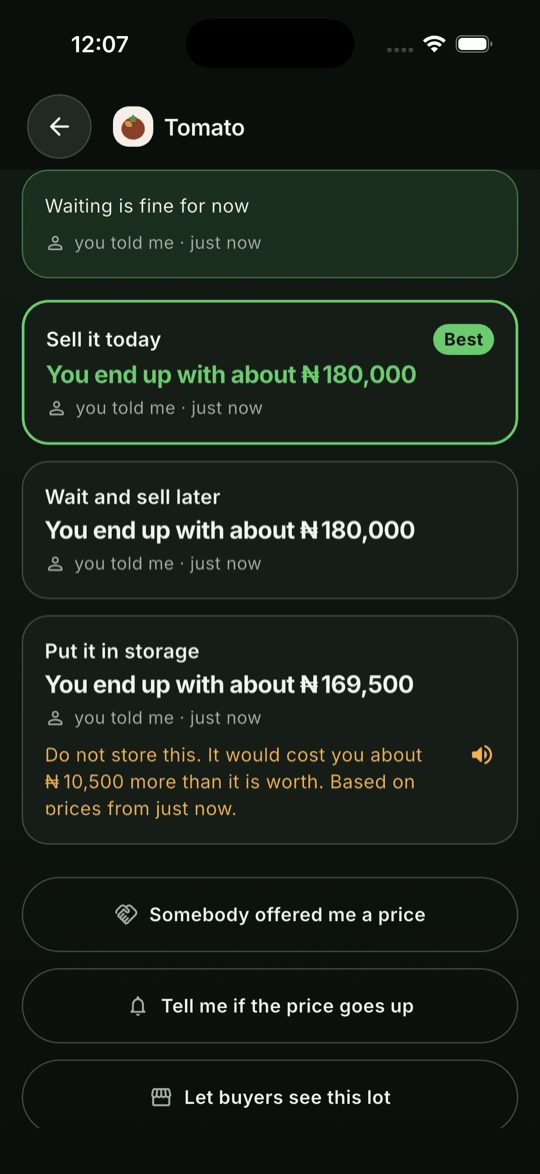
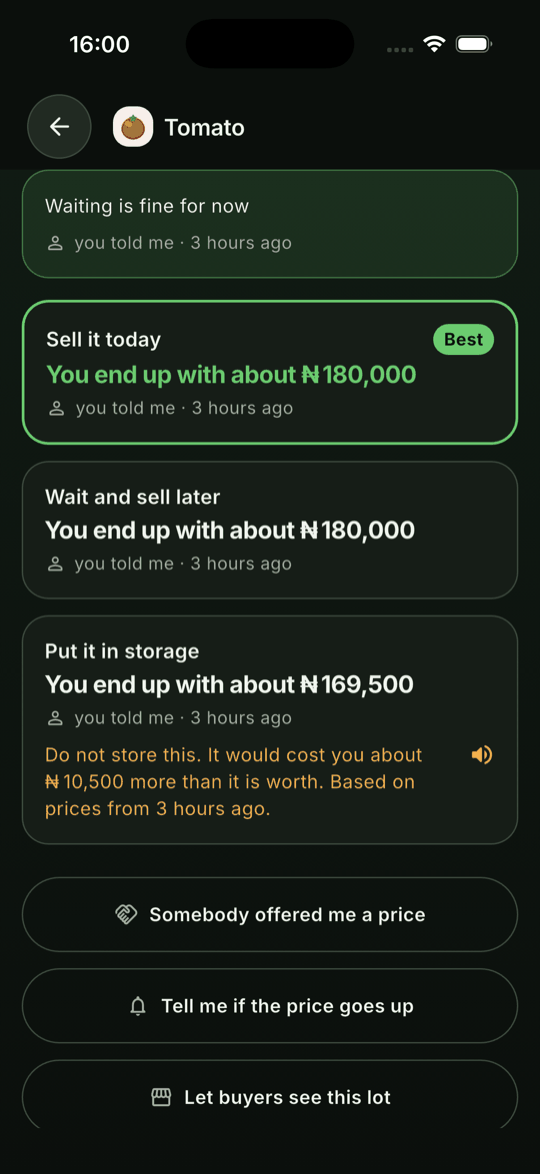
Stop the rounded corner of a tappable card clipping the last line's descenders

diff --git a/app/test/pressable_test.dart b/app/test/pressable_test.dart
@@ -1,0 +1,60 @@
+import 'package:flutter/material.dart';
+import 'package:flutter_test/flutter_test.dart';
+import 'package:harvest/core/theme.dart';
+
+/*
+  A tappable thing clips its ink and nothing else.
+
+  `Pressable` used to hand `Material` `clipBehavior: Clip.antiAlias`, which
+  clips the **child** to the rounded rectangle. Its box hugs its child exactly,
+  so for a block of text the bottom-left curve carved into the last line: on the
+  decision screen *"Based on prices from just now."* rendered as **orices** —
+  the descender of the `p`, the first glyph on that line and the one nearest the
+  corner, shaved flat, while the `j` of *just* two hundred pixels to the right
+  kept its tail.
+
+  This asserts the two facts that fix left standing, because the alternative is
+  a golden test and this repository has no golden infrastructure to hang one on.
+  Neither assertion would catch a *different* way of clipping the child — what
+  caught this one was looking at the pixels, and `docs/JOURNAL.md` says so.
+*/
+void main() {
+  Future<void> pump(WidgetTester tester) => tester.pumpWidget(MaterialApp(
+        theme: Palette.theme(brightness: Brightness.dark),
+        home: Scaffold(
+          body: Center(
+            child: Pressable(
+              borderRadius: Radii.chip,
+              onTap: () {},
+              child: const Text('Based on prices from just now.'),
+            ),
+          ),
+        ),
+      ));
+
+  testWidgets('the child is not clipped, so descenders survive the corner',
+      (tester) async {
+    await pump(tester);
+
+    final material = tester.widget<Material>(find.descendant(
+      of: find.byType(Pressable),
+      matching: find.byType(Material),
+    ));
+    expect(material.clipBehavior, Clip.none,
+        reason: 'clipping the child is what ate the tail of the p');
+  });
+
+  testWidgets('and the ink is still clipped to the same corner',
+      (tester) async {
+    await pump(tester);
+
+    // `InkWell.borderRadius` is what keeps the splash inside the rounded
+    // rectangle. It was doing that all along; the Material's clip was the
+    // belt-and-braces that cost a descender.
+    final ink = tester.widget<InkWell>(find.descendant(
+      of: find.byType(Pressable),
+      matching: find.byType(InkWell),
+    ));
+    expect(ink.borderRadius, Radii.chip);
+  });
+}

diff --git a/app/lib/core/theme.dart b/app/lib/core/theme.dart
@@ -531,7 +531,25 @@ class _PressableState extends State<Pressable> {
       child: Material(
         color: Colors.transparent,
         borderRadius: widget.borderRadius,
-        clipBehavior: Clip.antiAlias,
+        /*
+          Not clipped, because the corner was eating the words.
+
+          `Clip.antiAlias` here clips the **child** to the rounded rectangle,
+          and this box hugs its child exactly — for a block of text that means
+          the bottom-left curve carves into the last line. On the decision
+          screen, *"Based on prices from just now."* rendered as **orices**: the
+          descender of the `p`, the first glyph on that line and so the one
+          nearest the corner, was shaved flat, while the `j` of *just* two
+          hundred pixels to the right kept its tail. That asymmetry is what
+          identified the corner rather than an edge.
+
+          Nothing needed the clip. `InkWell.borderRadius` on the line below
+          already clips the splash and the highlight, which is what a tap
+          shows; and every child that paints a background of its own carries
+          its own `borderRadius` — checked across all seventeen uses, because
+          a child relying on this to round its square corners would be squared
+          off by removing it.
+        */
         child: InkWell(
           borderRadius: widget.borderRadius,
           onTap: widget.onTap,

diff --git a/docs/JOURNAL.md b/docs/JOURNAL.md
@@ -3829,3 +3829,60 @@ rather than guessed at.
 
 Which is the sixth thing this week that only running the product showed, and the
 first that only *looking closely at a picture of it* showed.
+
+
+## 2026-09-09 (last) — The corner was eating the words
+
+Following up the *orices* finding from the screenshots. Three measurements, and
+the first two were both wrong in an instructive way.
+
+**One:** laid the sentence out in a `TextPainter` with the real Inter loaded,
+and printed the line metrics. `bodyMedium` is 14 sp at `height: 1.45`, giving a
+20 px line box with 4.05 px of descent — deeper than Inter's actual descenders.
+The glyph bottom of the last line lands exactly on the box edge. **The text does
+not overflow.** So the tidy story — *the line box is too tight and the Material
+clip cuts what pokes out* — was false, and it was the story I had written into
+the task.
+
+**Two:** measured the raw capture. The lowest amber pixel is y=1828 and the
+card's bottom border is y=1884: fifty-six pixels of clear space below the cut.
+Not the card.
+
+**Three**, and the one that settled it: printed the glyphs as pixels. The `p`
+of *prices* is cut flat at y=1820 — and the `j` of *just*, two hundred and forty
+pixels to its right on **the same line**, keeps a full descender down to y=1828.
+A horizontal clip cuts both. Only a **corner** cuts one.
+
+`Pressable` wraps its child in `Material(clipBehavior: Clip.antiAlias)` with a
+12 dp radius, and its box hugs the text exactly. The `p` is the first glyph of
+the last line, so it sits inside the bottom-left curve; the `j` is well clear of
+it. Every observation falls out of that.
+
+### The fix, and what had to be true for it
+
+`Clip.none`. Nothing needed the clip: `InkWell.borderRadius` on the very next
+line already clips the splash and the highlight, and every child that paints a
+background of its own carries its own `borderRadius` — checked across all
+seventeen uses, because a child relying on the Material to round its square
+corners would have been squared off by removing it.
+
+Verified by looking, both ways round. The `p` has its tail. A long press
+recorded at 20 fps shows the highlight still rounded on all four corners, with
+the descender now painting *below* that curve — in exactly the sliver the clip
+used to take.
+
+`pressable_test.dart` holds the two facts the fix leaves standing, and says in
+its own comment that it would not catch a different way of clipping the child;
+what caught this one was looking at the pixels.
+
+### Three wrong stories before the right one
+
+I wrote *the line box is too tight* into a task file as the hypothesis, with
+confidence, before measuring it. Then I ran an experiment that proved nothing
+because reinstalling the build wiped the database and took the screen away. Then
+I read an ASCII dump of the glyphs and misread a `p` as an `o` next to an `r`.
+
+The thing that worked was the least clever: render the pixels large enough to
+look at, and compare two glyphs on the same line. Seventh time this week that
+running or looking at the product beat reasoning about it — and the first where
+what I had to look at was a single letter.

diff --git a/docs/FEATURE-BACKLOG.md b/docs/FEATURE-BACKLOG.md
@@ -6,6 +6,7 @@ into a graveyard.
 
 | | Why not now |
 |---|---|
+| Find out why `sync.test.ts` sometimes times out resetting the database | Its `beforeEach` calls `reset(db)` and twice today that hook hit its 10-second limit — once on a test that then ran for 320 seconds — while an iOS build, a screen recording and ffmpeg over a thousand frames were all running. It passes on a quiet machine and passed on the next two runs. A test that fails only under load is a test that will fail on somebody's CI runner, and *slow* is not the same as *hung*: worth finding out which it is before it is diagnosed as flake and retried away. |
 | Tell the farmer when warnings could not be scheduled | The save is guarded now, so a platform that refuses costs a warning rather than a harvest — but it costs it **silently**, which is the failure mode this repository keeps writing down. Saying so needs a sentence in six languages and a recording of it, which is R1. It joins the clip list rather than shipping as English text on a screen for somebody who may not read. |
 | Composed audio — *"Your {crop} has {n} days left"* | Phase 1. Needs the crop catalogue and number clips before a template can assemble anything. |
 | Waveform or duration display on the language rows | The speaker icon already says which row is talking. A second indicator is furniture until somebody reports the first is not enough. |

diff --git a/CHANGELOG.md b/CHANGELOG.md
@@ -240,6 +240,18 @@ Entries say *why*, not just what.
 
 ### Fixed
 
+- **The rounded corner of a tappable card was eating the last word's
+  descender.** `Pressable` clipped its *child* to the rounded rectangle, and
+  that box hugs its child exactly — so on a block of text the bottom-left curve
+  carved into the last line. On the decision screen *"Based on prices from just
+  now."* rendered as **orices**: the `p` is the first glyph on that line and so
+  the one nearest the corner, and its tail was shaved flat while the `j` of
+  *just* two hundred pixels to the right kept its own. That asymmetry is what
+  identified the corner rather than a horizontal edge. Nothing needed the clip —
+  `InkWell.borderRadius` already keeps the splash inside the corner, and every
+  child that paints a background carries its own radius. `12-storage-offer` is
+  retaken.
+
 - **Nothing ever exchanged the stored refresh token.** `AccountStore.restore()`
   has documented itself as *called at launch and before anything that needs an
   account* since Phase 5, and had **no caller** — not in `lib/`, not in a test.
